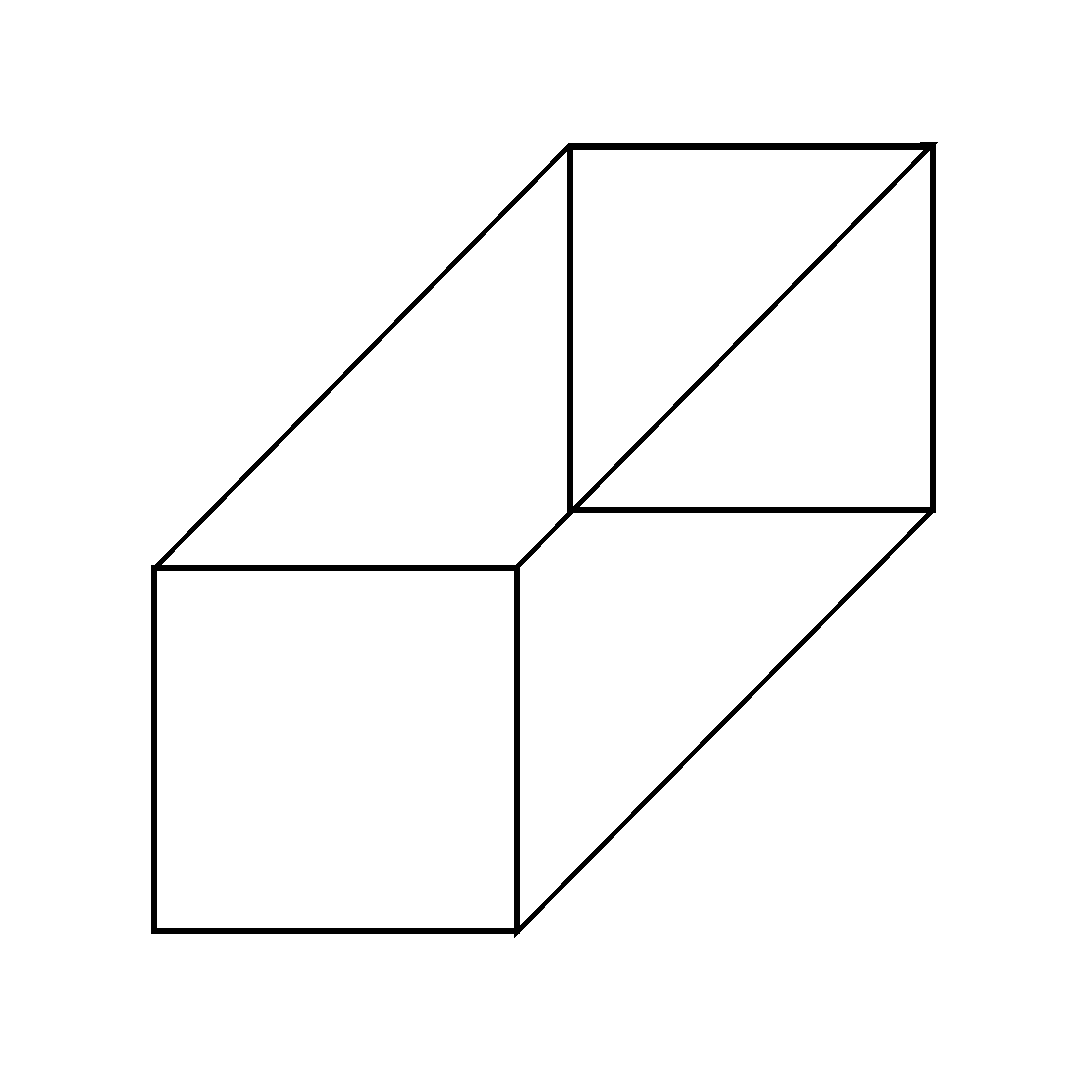
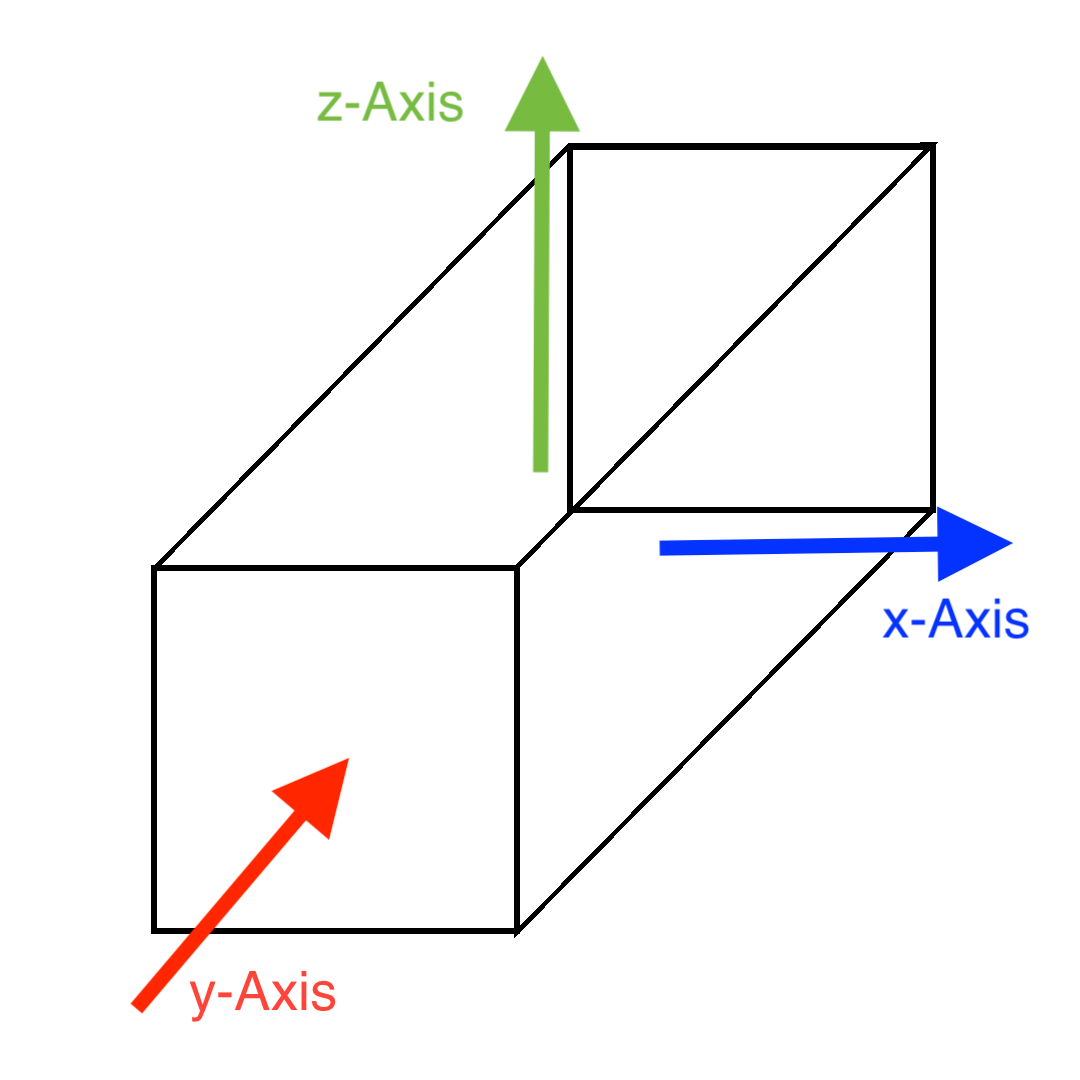
added troubleshooting section adn aces orientation

diff --git a/_documentation/HowToMaRGE.md b/_documentation/HowToMaRGE.md
@@ -1,6 +1,6 @@
 # Get started with MaRGE and produce the first scans
 
-To produce the first pictures using MaRGE, one has to follow these steps.
+To produce the first scans using MaRGE, one has to follow these steps.
 
 ### 1. Start MaRGE software  
 #### 1.1 Navigate into the MaRGE folder
@@ -46,20 +46,53 @@ On the left side, in the console section, one will see a message like `READY: Se
 Lastly, press "Init power modules."  
 This will enable the GPA.  
 <img src="init_power_modules.png" alt="init_power_modules" style="width: 100%;">  
-A message `READY: GPA init done!` will appeear in the console.
+A message `READY: GPA init done!` will appeear in the console. Also, one will hear a sound from the sund simulator.
 
 ### 5. Perform Autocalibration and Localizer Sequences  
 
 First, it is recommended to perform an autocalibration. This will include a Lamor Frequency check, a Rabi Flops Sequence, and noise measurement. One does not need to worry about the error message from the AutoTuning Sequence — this is not required.  
 
 <img src="autocalibration.png" alt="autocalibration" style="width: 100%;">  
-In addition, a Localizer Sequence will help to produce pictures of higher quality.  
+In addition, a Localizer Sequence will help to produce scans of higher quality.  
 <img src="localizer.png" alt="localizer" style="width: 100%;">
 
+### 6. Run Sequences
+Now, every sequence can be run by selecting from the dropdown menu on the left side and press the `Acquire` button.
 
 
+
+
+## Axes orientation:
+
+Inside the sequences, there is always this section `Axes [rd, ph, sl]`.
+Here, one can define what type of scans gets created.  
+The axes of the MRI are orientated this way:  
+<img src="3daxes.png" alt="axes" style="width: 50%;">  
+This means, one has to select certain axes as slicing axes (put in the last position inside the brackets -> "sl") to get these type of scans:  
+
+| Scan Type   | Slicing Axis   | variable   |
+|------------|------------|------------|
+| Coronal  | X  | 0  |
+| Transversal  | Y  | 1  |
+| Saggital  | Z  | 2  |
+
+For example, to produce a transversal scan, the Axes input could look like this: `[2, 0, 1]`
 
 
 ## Troubleshooting Common Issues  
+
+### Software does not respond
+If during a sequence, the window `main.py is not responding` pops up, this is not a problem. During some sequences the threading is too slow and then the GUI is not responsive, which results in this error message. However, as soon as the sequence is finished this window should close and the the GUI will be responsive again.
+
+### No gradient output
 If no gradients can be seen, try pressing "Init power modules" again. Sometimes the initiation does not work right at the first try, so doing this 2-3 times will solve this problem.
+
+
+### No larmor frequency
+The larmor frequence should be at around 16.55-16.65 MHz depending on the temperature in the room.  
+If no larmor can be found, try starting at one of these frequencies and run the sequencies iterative, by clicking the button right next to the `Acquire` button beforehand (The double error symbol). This will run the squence as long as one stops it and therefore may find the lamro frequency faster.   
+One can also adjust the parameters and check with a higher bandwith for example. 
+
+In addition, check if by accident the shimming vector has changed. It should be by default at `[10.0, -10.0, 10.0]`.  
+The shimming sequence should NOT be run, as this will just set the shimming values to the boundaries of the range.
 
